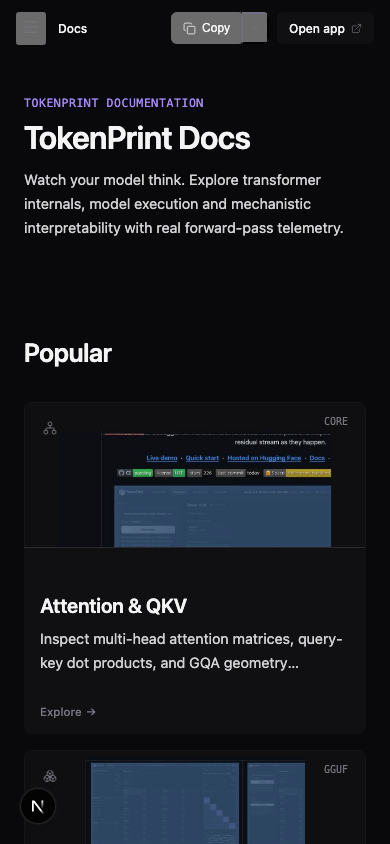
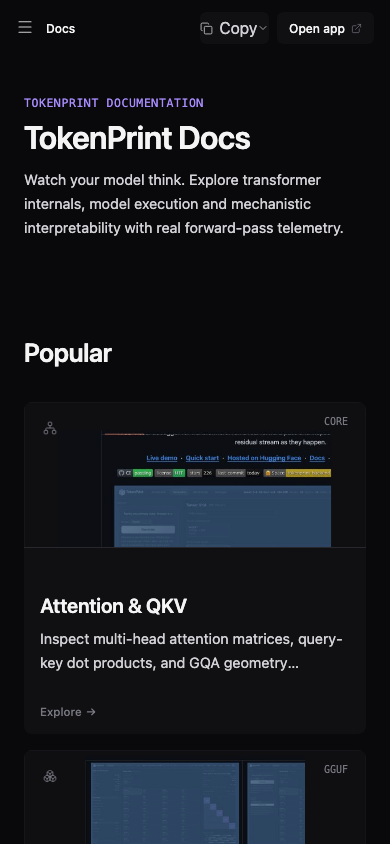
fix(docs): reset buttonface/list styles, lock TOC sticky rail, and hide dev indicator

Changed region(s): [[0.4308, 0.0, 0.7077, 0.0616], [0.0308, 0.0, 0.2154, 0.0616]]

diff --git a/frontend/components/docs/DocsNav.tsx b/frontend/components/docs/DocsNav.tsx
@@ -106,7 +106,7 @@ export default function DocsNav({
 
         <button
           onClick={onOpenSearchModal}
-          className="w-8 h-8 rounded-md border border-[var(--docs-border)] flex items-center justify-center text-[var(--docs-text-muted)] hover:text-[var(--docs-heading)] hover:border-[var(--docs-border-strong)] transition-colors duration-150"
+          className="w-8 h-8 rounded-md border border-[var(--docs-border)] bg-transparent flex items-center justify-center text-[var(--docs-text-muted)] hover:text-[var(--docs-heading)] hover:border-[var(--docs-border-strong)] transition-colors duration-150"
           aria-label="Search documentation (⌘K)"
           title="Search (⌘K)"
         >
@@ -125,7 +125,7 @@ export default function DocsNav({
               <button
                 type="button"
                 onClick={() => toggleGroup(section.id)}
-                className="w-full px-2 py-1 flex items-center justify-between text-[11.5px] font-semibold uppercase tracking-[0.06em] text-[var(--docs-text-muted)] hover:text-[var(--docs-heading)] transition-colors duration-150 text-left"
+                className="w-full px-2 py-1.5 flex items-center justify-between text-[11px] font-semibold uppercase tracking-[0.06em] text-[var(--docs-text-muted)] hover:text-[var(--docs-heading)] transition-colors duration-150 text-left bg-transparent border-0 select-none"
               >
                 <span>{section.label}</span>
                 <span className="text-[var(--docs-text-muted)]">
@@ -150,12 +150,12 @@ export default function DocsNav({
                           href={`/docs/${page.slug}`}
                           ref={active ? activeItemRef : null}
                           onClick={() => setMobileOpen(false)}
-                          className={`h-[34px] px-2.5 flex items-center gap-2.5 rounded-md text-[13px] font-[450] no-underline transition-colors duration-150 ${
+                          className={`h-[32px] px-2.5 flex items-center gap-2.5 rounded-md text-[13px] font-[450] no-underline transition-colors duration-150 ${
                             active
-                              ? "text-[var(--docs-heading)] bg-[var(--docs-surface-elevated)] border-l-2 border-[var(--docs-accent)]"
+                              ? "text-white bg-[var(--docs-surface-hover)] font-medium"
                               : parentActive
                               ? "text-[var(--docs-heading)]"
-                              : "text-[var(--docs-text-muted)] hover:text-[var(--docs-heading)] hover:bg-[var(--docs-surface-hover)]"
+                              : "text-[var(--docs-text-muted)] hover:text-[var(--docs-heading)] hover:bg-[var(--docs-surface-hover)]/60"
                           }`}
                         >
                           {page.icon && (

diff --git a/frontend/components/docs/TopBar.tsx b/frontend/components/docs/TopBar.tsx
@@ -166,10 +166,11 @@ export default function TopBar({ onToggleMobileNav, onOpenSearch }: TopBarProps)
 
         {/* Split Copy Page Button */}
         <div className="relative" ref={dropdownRef}>
-          <div className="inline-flex rounded-md border border-[var(--docs-border)] bg-[var(--docs-surface)] overflow-hidden">
+          <div className="inline-flex items-center rounded-md border border-[var(--docs-border)] bg-[var(--docs-surface)] overflow-hidden">
             <button
+              type="button"
               onClick={handleCopyMarkdown}
-              className="h-8 px-2.5 text-[12px] font-medium text-[var(--docs-heading)] hover:bg-[var(--docs-surface-hover)] transition-colors flex items-center gap-1.5"
+              className="h-8 px-2.5 text-[12px] font-medium text-[var(--docs-heading)] bg-transparent border-0 hover:bg-[var(--docs-surface-hover)] transition-colors flex items-center gap-1.5"
             >
               {copied ? (
                 <Check size={13} className="text-[var(--docs-semantic-success)]" />
@@ -179,8 +180,9 @@ export default function TopBar({ onToggleMobileNav, onOpenSearch }: TopBarProps)
               <span>{copied ? "Copied" : "Copy"}</span>
             </button>
             <button
+              type="button"
               onClick={() => setDropdownOpen((v) => !v)}
-              className="h-8 px-1.5 border-l border-[var(--docs-border)] text-[var(--docs-text-muted)] hover:text-[var(--docs-heading)] hover:bg-[var(--docs-surface-hover)] transition-colors flex items-center justify-center"
+              className="h-8 px-1.5 border-0 border-l border-[var(--docs-border)] bg-transparent text-[var(--docs-text-muted)] hover:text-[var(--docs-heading)] hover:bg-[var(--docs-surface-hover)] transition-colors flex items-center justify-center"
               aria-label="Copy options"
             >
               <ChevronDown size={12} strokeWidth={1.5} />

diff --git a/frontend/components/docs/DocsAppShell.tsx b/frontend/components/docs/DocsAppShell.tsx
@@ -96,15 +96,17 @@ export default function DocsAppShell({ children }: { children: React.ReactNode }
             </div>
           ) : (
             /* Three-column layout for standard articles */
-            <div className="max-w-[1040px] mx-auto py-8 px-6 lg:px-8 flex gap-8 xl:gap-12 justify-between items-start">
+            <div className="max-w-[1040px] mx-auto py-8 px-6 lg:px-8 flex gap-8 xl:gap-12 justify-between items-stretch">
               <div className="flex-1 min-w-0 max-w-[740px]">
                 <article className="docs-content">{children}</article>
                 <SuggestedArticles />
               </div>
 
-              {/* Right rail TOC (hidden below 1100px) */}
-              <aside className="w-[200px] hidden xl:block flex-shrink-0">
-                <DocsOnThisPage />
+              {/* Right rail TOC — locked sticky while reading */}
+              <aside className="w-[200px] hidden xl:block flex-shrink-0 self-stretch">
+                <div className="sticky top-8">
+                  <DocsOnThisPage />
+                </div>
               </aside>
             </div>
           )}

diff --git a/frontend/app/globals.css b/frontend/app/globals.css
@@ -6848,6 +6848,44 @@ body.docs-page-active {
   flex-direction: row !important;
 }
 
+/* Reset button element styling inside docs shell to eliminate browser buttonface & outset */
+.docs-shell button {
+  background: transparent;
+  border: none;
+  padding: 0;
+  margin: 0;
+  font: inherit;
+  color: inherit;
+  cursor: pointer;
+  text-align: inherit;
+  box-shadow: none;
+  outline: none;
+  -webkit-appearance: none;
+  appearance: none;
+}
+
+/* Reset list element styling inside docs shell (Table of Contents, nav lists) */
+.docs-shell ul,
+.docs-shell ol {
+  list-style: none !important;
+  padding: 0 !important;
+  margin: 0 !important;
+}
+
+.docs-shell li {
+  list-style: none !important;
+  padding: 0 !important;
+  margin: 0 !important;
+}
+
+/* Hide Next.js dev indicator portal in dev mode */
+nextjs-portal,
+[data-nextjs-toast],
+[data-nextjs-dev-overlay],
+#nextjs-dev-overlay {
+  display: none !important;
+}
+
 /* Remove all underlines by default across documentation */
 .docs-shell a,
 .docs-shell a:hover,

diff --git a/frontend/components/docs/DocsOnThisPage.tsx b/frontend/components/docs/DocsOnThisPage.tsx
@@ -89,10 +89,10 @@ export default function DocsOnThisPage() {
 
   return (
     <nav
-      className="w-[200px] flex-shrink-0 select-none"
+      className="w-full select-none"
       aria-label="Table of contents"
     >
-      <div className="sticky top-20 space-y-2.5">
+      <div className="space-y-2.5">
         <p className="text-[11.5px] font-semibold uppercase tracking-[0.06em] text-[var(--docs-text-muted)]">
           On this page
         </p>
@@ -109,11 +109,11 @@ export default function DocsOnThisPage() {
             />
           )}
 
-          <ul className="space-y-0.5">
+          <ul className="space-y-0.5 list-none p-0 m-0">
             {headings.map((h) => {
               const active = activeId === h.id;
               return (
-                <li key={h.id}>
+                <li key={h.id} className="list-none p-0 m-0">
                   <a
                     href={`#${h.id}`}
                     data-heading-id={h.id}
